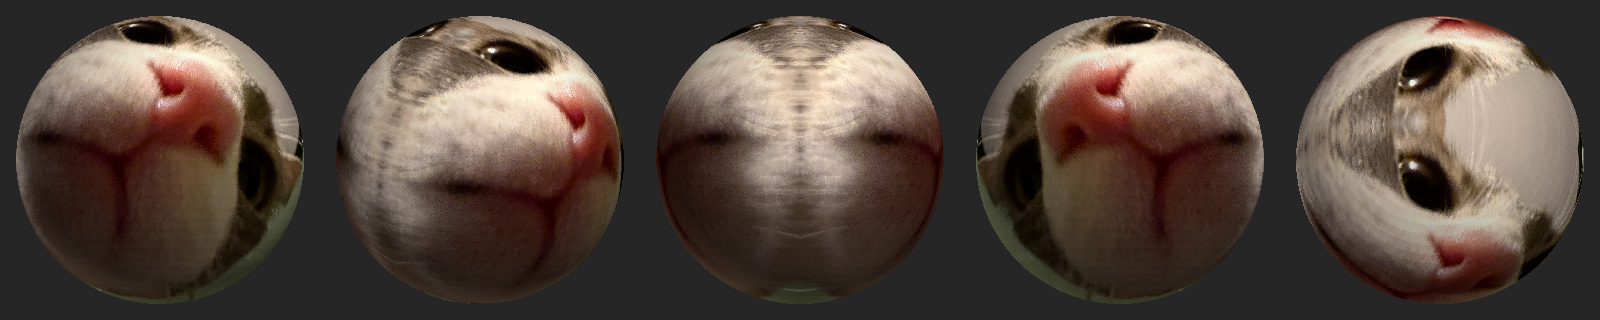
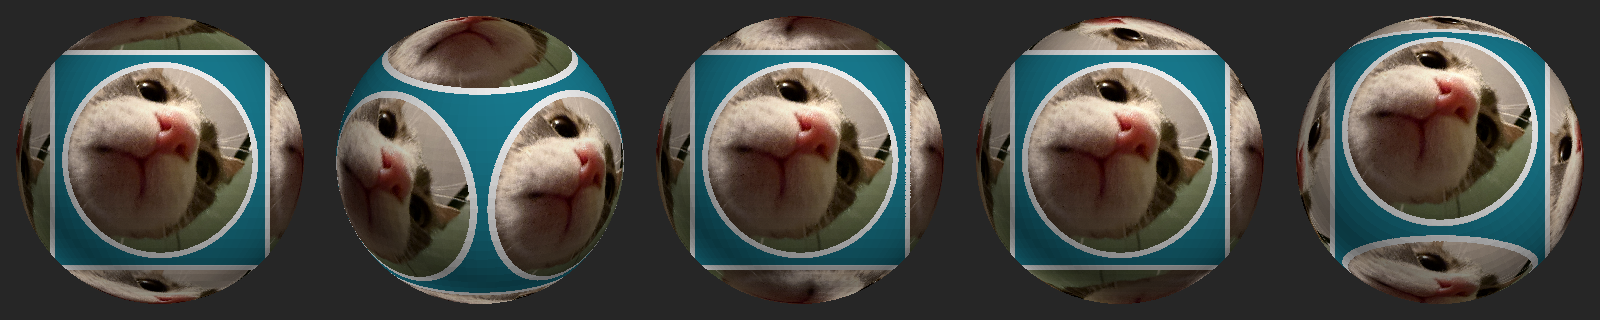
Fix chrome look and add sticker layouts
- colour texture alpha is metalness (game packs soul_container_metal.png
  there; original is fully metallic) -> default metalness 0, roughness 0.9
- new layouts: cube6 (6 photo stickers, readable from any angle, default),
  twice (front/back), wrap (previous behaviour)

diff --git a/catmod/photo.py b/catmod/photo.py
@@ -1,43 +1,72 @@
 """Project a user photo onto the sphere's equirectangular texture.
 
-Every texel (u, v) is a direction d on the sphere (convention in catmod.mesh, +Z up). The photo is
-"printed" on the front hemisphere (+X) facing outward; the back hemisphere is filled per `back`.
+Every texel (u, v) is a direction d on the sphere (convention in catmod.mesh: +Z up, u = phi/2pi,
+v = theta/pi). In game the container's orientation is arbitrary, so the default layout repeats the
+photo as round "stickers" so that a complete, undistorted photo is visible from every angle.
 
-Parameters (all exposed so a UI can tweak them):
-  center      (x, y) of the photo pixel that lands on the front of the sphere, fractions 0..1
-  radius      radius of the photo disc that wraps the front hemisphere, as a fraction of the
-              photo's shorter side (0.5 = the largest centred disc)
-  projection  'ortho'       -> looks exactly like the photo when seen straight on
-              'equidistant' -> spreads the photo more evenly, less squashed towards the edges
-  back        'mirror' -> back hemisphere = same disc (seamless, appears mirrored from behind)
-              'flip'   -> back hemisphere = disc flipped so it reads correctly from behind
-              'color'  -> solid `back_color`
+Layouts:
+  'cube6'  6 stickers at the cube face centres (+-X, +-Y, +-Z)      <- default, readable from anywhere
+  'twice'  2 stickers, front (+X) and back (-X)
+  'wrap'   one photo wrapped around the whole sphere (front +X, back per `back`)
+
+Sticker parameters:
+  sticker_deg   angular radius of each sticker (cube6 max ~45 before they touch)
+  ring_deg      width of the coloured ring around each sticker (0 = none)
+  ring_color / bg_color
+
+Photo framing (shared by all layouts):
+  center      photo point (fractions 0..1) placed at each sticker's centre
+  radius      photo disc radius as a fraction of the photo's shorter side (0.5 = largest centred disc)
+  projection  'equidistant' (even spread) or 'ortho' (exact when seen straight on, squashed at edges)
+
+Material:
+  roughness   0..1, written to the NormalRoughness texture (blue channel)
+  metalness   0..1, stored in the colour texture's alpha (the game packs soul_container_metal.png
+              there; the original cage is fully metallic, which makes a photo look like chrome).
 """
 from __future__ import annotations
 
-from dataclasses import dataclass, field
+from dataclasses import dataclass
 
 import numpy as np
 from PIL import Image, ImageEnhance, ImageOps
 
 TEX_SIZE = 2048
 
+S = 1 / np.sqrt(2)
+# (centre direction, up direction) per sticker. Up for the top/bottom stickers is arbitrary.
+LAYOUTS = {
+    "cube6": [((1, 0, 0), (0, 0, 1)), ((-1, 0, 0), (0, 0, 1)), ((0, 1, 0), (0, 0, 1)),
+              ((0, -1, 0), (0, 0, 1)), ((0, 0, 1), (-1, 0, 0)), ((0, 0, -1), (1, 0, 0))],
+    "twice": [((1, 0, 0), (0, 0, 1)), ((-1, 0, 0), (0, 0, 1))],
+}
+
 
 @dataclass
 class PhotoParams:
+    layout: str = "cube6"
     center: tuple[float, float] = (0.5, 0.5)
     radius: float = 0.5
     projection: str = "equidistant"
-    back: str = "mirror"
-    back_color: tuple[int, int, int] = (40, 40, 40)
+    sticker_deg: float = 40.0
+    ring_deg: float = 3.0
+    ring_color: tuple[int, int, int] = (235, 235, 235)
+    bg_color: tuple[int, int, int] = (24, 120, 140)  # soul teal
+    back: str = "mirror"  # wrap layout only: mirror | flip | color
+    metalness: float = 0.0
+    roughness: float = 0.9  # 0 = mirror-like, 1 = fully matte (original cage: ~0.69)
     contrast: float = 1.05
     saturation: float = 1.10
-    rotation_deg: float = 0.0  # rotate the photo before projecting
+    rotation_deg: float = 0.0
 
     def validate(self):
+        assert self.layout in ("cube6", "twice", "wrap"), self.layout
         assert self.projection in ("ortho", "equidistant"), self.projection
         assert self.back in ("mirror", "flip", "color"), self.back
         assert 0.05 <= self.radius <= 1.5, self.radius
+        assert 5 <= self.sticker_deg <= 90, self.sticker_deg
+        assert 0 <= self.metalness <= 1, self.metalness
+        assert 0 <= self.roughness <= 1, self.roughness
         return self
 
 
@@ -61,35 +90,56 @@ def _bilinear(img: np.ndarray, x: np.ndarray, y: np.ndarray) -> np.ndarray:
     return (a * (1 - fx) + b * fx) * (1 - fy) + (c * (1 - fx) + d * fx) * fy
 
 
-def sphere_texture(photo, params: PhotoParams | None = None, size: int = TEX_SIZE) -> Image.Image:
-    params = (params or PhotoParams()).validate()
-    img = load_photo(photo, params)
-    arr = np.asarray(img, np.float32)
-    h, w = arr.shape[:2]
-    cx, cy = params.center[0] * w, params.center[1] * h
-    r = params.radius * min(w, h)
-
+def directions(size: int) -> np.ndarray:
     u = (np.arange(size) + 0.5) / size
-    v = (np.arange(size) + 0.5) / size
-    ph, th = np.meshgrid(u * 2 * np.pi, v * np.pi)
-    dx = np.sin(th) * np.cos(ph)  # towards the viewer of the front face
-    dy = np.sin(th) * np.sin(ph)  # viewer's right
-    dz = np.cos(th)               # up
+    ph, th = np.meshgrid(u * 2 * np.pi, u * np.pi)
+    return np.stack([np.sin(th) * np.cos(ph), np.sin(th) * np.sin(ph), np.cos(th)], -1)
 
-    lateral = np.hypot(dy, dz)
-    if params.projection == "ortho":
-        rho = lateral  # 0 at the front centre, 1 on the silhouette
-    else:
-        alpha = np.arctan2(lateral, np.abs(dx))  # angle from the front/back axis
-        rho = alpha / (np.pi / 2)
+
+def _disc_coords(d, centre, up, max_angle, projection):
+    """Unit-disc coords (sx right, sy up) of directions d in a sticker; rho=1 at max_angle."""
+    c, up = np.asarray(centre, float), np.asarray(up, float)
+    right = np.cross(up, c)  # viewer outside looking at the sticker: right = up x centre
+    x, y, z = d @ right, d @ up, d @ c
+    lateral = np.hypot(x, y)
+    ang = np.arctan2(lateral, z)
+    rho = (ang if projection == "equidistant" else np.sin(np.minimum(ang, np.pi / 2))) / (
+        max_angle if projection == "equidistant" else np.sin(max_angle))
     with np.errstate(invalid="ignore", divide="ignore"):
-        scale = np.where(lateral > 1e-9, rho / lateral, 0.0)
-    sx, sy = dy * scale, dz * scale  # unit-disc coordinates
+        k = np.where(lateral > 1e-9, rho / lateral, 0.0)
+    return x * k, y * k, ang
 
-    back = dx < 0
-    if params.back == "flip":
-        sx = np.where(back, -sx, sx)
-    out = _bilinear(arr, cx + sx * r, cy - sy * r)
-    if params.back == "color":
-        out[back] = params.back_color
-    return Image.fromarray(np.clip(out, 0, 255).astype(np.uint8), "RGB")
+
+def sphere_texture(photo, params: PhotoParams | None = None, size: int = TEX_SIZE) -> Image.Image:
+    """RGBA equirect texture; alpha = metalness."""
+    p = (params or PhotoParams()).validate()
+    arr = np.asarray(load_photo(photo, p), np.float32)
+    h, w = arr.shape[:2]
+    cx, cy, r = p.center[0] * w, p.center[1] * h, p.radius * min(w, h)
+    d = directions(size)
+
+    if p.layout == "wrap":
+        sx, sy, _ = _disc_coords(d, (1, 0, 0), (0, 0, 1), np.pi / 2, p.projection)
+        back = d[..., 0] < 0
+        if p.back == "flip":
+            sx = np.where(back, -sx, sx)
+        out = _bilinear(arr, cx + sx * r, cy - sy * r)
+        if p.back == "color":
+            out[back] = p.bg_color
+    else:
+        stickers = LAYOUTS[p.layout]
+        cos = np.stack([d @ np.asarray(c, float) for c, _ in stickers])
+        nearest = cos.argmax(0)
+        out = np.empty(d.shape[:2] + (3,), np.float32)
+        out[:] = p.bg_color
+        R, ring = np.radians(p.sticker_deg), np.radians(p.ring_deg)
+        for i, (c, up) in enumerate(stickers):
+            sx, sy, ang = _disc_coords(d, c, up, R, p.projection)
+            mine = nearest == i
+            inside = mine & (ang <= R)
+            out[inside] = _bilinear(arr, cx + sx[inside] * r, cy - sy[inside] * r)
+            out[mine & (ang > R) & (ang <= R + ring)] = p.ring_color
+
+    alpha = np.full(out.shape[:2] + (1,), round(p.metalness * 255), np.float32)
+    rgba = np.concatenate([np.clip(out, 0, 255), alpha], -1).astype(np.uint8)
+    return Image.fromarray(rgba, "RGBA")

diff --git a/scripts/catmod_cli.py b/scripts/catmod_cli.py
@@ -30,7 +30,15 @@ def main():
     b.add_argument("--center", type=float, nargs=2, default=(0.5, 0.5), metavar=("X", "Y"))
     b.add_argument("--radius", type=float, default=0.5)
     b.add_argument("--projection", choices=["ortho", "equidistant"], default="equidistant")
-    b.add_argument("--back", choices=["mirror", "flip", "color"], default="mirror")
+    b.add_argument("--layout", choices=["cube6", "twice", "wrap"], default="cube6",
+                   help="cube6: 6 photo stickers (readable from any angle); twice: front+back; wrap: one photo")
+    b.add_argument("--sticker-deg", type=float, default=40.0, help="sticker angular radius")
+    b.add_argument("--ring-deg", type=float, default=3.0, help="ring width around stickers (0 = none)")
+    b.add_argument("--bg-color", default="18788c", help="hex colour between stickers")
+    b.add_argument("--ring-color", default="ebebeb", help="hex colour of the sticker ring")
+    b.add_argument("--metalness", type=float, default=0.0)
+    b.add_argument("--roughness", type=float, default=0.9)
+    b.add_argument("--back", choices=["mirror", "flip", "color"], default="mirror", help="wrap layout only")
     b.add_argument("--rotate", type=float, default=0.0)
     a = ap.parse_args()
 
@@ -39,8 +47,11 @@ def main():
             print("wrote", p)
         return
 
-    params = PhotoParams(center=tuple(a.center), radius=a.radius, projection=a.projection,
-                         back=a.back, rotation_deg=a.rotate)
+    hexrgb = lambda h: tuple(int(h.lstrip("#")[i:i + 2], 16) for i in (0, 2, 4))
+    params = PhotoParams(layout=a.layout, center=tuple(a.center), radius=a.radius,
+                         projection=a.projection, sticker_deg=a.sticker_deg, ring_deg=a.ring_deg,
+                         bg_color=hexrgb(a.bg_color), ring_color=hexrgb(a.ring_color), back=a.back,
+                         metalness=a.metalness, roughness=a.roughness, rotation_deg=a.rotate)
     result = build_mod(a.photo, params)
     a.output.parent.mkdir(parents=True, exist_ok=True)
     a.output.write_bytes(result.vpk_bytes())

diff --git a/catmod/build.py b/catmod/build.py
@@ -14,8 +14,9 @@ from .photo import PhotoParams, sphere_texture
 from .vmdl import build_sphere_model, decode_lod
 
 # compiled NormalRoughness layout (raw texels): R,G = normal XY (128 = flat), B = roughness, A = 255.
-# 177 = the original texture's average roughness. (Source2Viewer shows it re-arranged as RGB normal + A rough.)
-NORMAL_ROUGH_RGBA = (128, 128, 177, 255)
+# (Source2Viewer displays it re-arranged as RGB normal + A roughness.)
+def normal_rough_rgba(roughness: float):
+    return (128, 128, round(roughness * 255), 255)
 
 
 @dataclass
@@ -48,7 +49,8 @@ def build_mod(photo, params: PhotoParams | None = None, shape: str = "sphere") -
         raise NotImplementedError(shape)
     if not isinstance(photo, (str, Path, Image.Image)):
         photo = Image.open(io.BytesIO(photo.read() if hasattr(photo, "read") else photo))
-    texture = sphere_texture(photo, params)
+    params = (params or PhotoParams()).validate()
+    texture = sphere_texture(photo, params)  # RGBA, alpha = metalness
 
     model, grids = build_sphere_model(templates.load(templates.MODEL))
     color_tpl = templates.load(templates.COLOR)
@@ -58,9 +60,9 @@ def build_mod(photo, params: PhotoParams | None = None, shape: str = "sphere") -
     size = vtex.info(color_tpl)["width"]
     files = {
         templates.MODEL.game_path: model,
-        templates.COLOR.game_path: vtex.rebuild(color_tpl, texture.convert("RGBA").resize((size, size))),
+        templates.COLOR.game_path: vtex.rebuild(color_tpl, texture.resize((size, size), Image.LANCZOS)),
         templates.NORMAL_ROUGH.game_path: vtex.rebuild(
-            nr_tpl, Image.new("RGBA", (size, size), NORMAL_ROUGH_RGBA)),
+            nr_tpl, Image.new("RGBA", (size, size), normal_rough_rgba(params.roughness))),
         templates.AO.game_path: vtex.rebuild(ao_tpl, constant=255),  # no baked occlusion
     }
     return ModResult(files, texture, grids)

diff --git a/tests/test_catmod.py b/tests/test_catmod.py
@@ -52,11 +52,15 @@ def test_sphere_winding_outward_and_budget():
 def test_sphere_texture_shape_and_front():
     photo = Image.new("RGB", (300, 400), (200, 30, 30))
     photo.paste((30, 200, 30), (140, 190, 160, 210))  # green dot at the centre
-    tex = sphere_texture(photo, PhotoParams(saturation=1.0, contrast=1.0), size=256)
-    assert tex.size == (256, 256)
-    # front centre of the sphere = u 0 / v 0.5 -> texel column 0, middle row
-    r, g, b = tex.getpixel((0, 128))
-    assert g > r
+    for layout in ("cube6", "twice", "wrap"):
+        tex = sphere_texture(photo, PhotoParams(layout=layout, saturation=1.0, contrast=1.0), size=256)
+        assert tex.size == (256, 256) and tex.mode == "RGBA"
+        # front centre of the sphere = u 0 / v 0.5 -> texel column 0, middle row
+        r, g, b, a = tex.getpixel((0, 128))
+        assert g > r, layout
+        assert a == 0  # metalness 0 by default (alpha = metalness)
+    tex = sphere_texture(photo, PhotoParams(metalness=1.0), size=64)
+    assert tex.getpixel((0, 32))[3] == 255
 
 
 @needs_templates

diff --git a/README.md b/README.md
@@ -1,6 +1,6 @@
 # Deadlock Picture Mod — tu foto como Soul Container
 
-Convierte el **soul container** de Deadlock (el objeto que queda cuando mueres con almas sin asegurar) en una **esfera envuelta con una foto**, por ejemplo la de tu gato. El resultado es un `.vpk` que se instala con Deadlock Mod Manager.
+Convierte el **soul container** de Deadlock (el objeto que queda cuando mueres con almas sin asegurar) en una **esfera con tu foto**, por ejemplo la de tu gato. Por defecto, la foto se repite en 6 calcomanías redondas, así siempre se ve completa sin importar cómo caiga o gire la esfera. El resultado es un `.vpk` que se instala con Deadlock Mod Manager.
 
 ![preview](docs/preview.png)
 
@@ -19,10 +19,14 @@ Opciones de `build`:
 
 | Opción | Qué hace |
 |---|---|
+| `--layout cube6\|twice\|wrap` | `cube6`: 6 calcomanías, legible desde cualquier ángulo (por defecto); `twice`: frente y atrás; `wrap`: una sola foto envolviendo toda la esfera |
+| `--sticker-deg` / `--ring-deg` | tamaño angular de cada calcomanía (40° por defecto) y grosor del anillo (3°) |
+| `--bg-color` / `--ring-color` | colores hex del fondo (turquesa "alma") y del anillo |
+| `--metalness` / `--roughness` | material: 0 / 0.9 por defecto. **No subas el metal:** la foto se vuelve un reflejo cromado |
 | `--center X Y` | punto de la foto (de 0 a 1) que queda al frente de la esfera |
 | `--radius R` | cuánta foto envuelve el frente (fracción del lado corto; 0.5 por defecto, más grande = se ve más foto) |
 | `--projection equidistant\|ortho` | `equidistant` reparte la foto de forma pareja (por defecto); `ortho` la deja idéntica vista de frente, pero muy estirada en los bordes |
-| `--back mirror\|flip\|color` | qué va en la parte de atrás: espejo sin costura (por defecto), volteada o color sólido |
+| `--back mirror\|flip\|color` | solo para `wrap`: qué va en la parte de atrás |
 | `--rotate GRADOS` | rota la foto antes de proyectarla |
 
 Para probar en el juego, en sandbox o en una partida privada, abre la consola y ejecuta: `sv_cheats 1`, `citadel_give_gold 5000 1` (almas sin asegurar) y `kill`.
@@ -34,8 +38,8 @@ No hacen falta herramientas de Valve: el mod se arma **parcheando los archivos c
 | Archivo | Cambio |
 |---|---|
 | `soul_container.vmdl_c` | Los vértices e índices de los 4 LOD (comprimidos con meshoptimizer) se reemplazan por una esfera UV de radio 6.3. Se mantienen las mismas cantidades, así que los metadatos binarios (KV3), la física (esfera de radio 7) y el material no cambian. |
-| `soul_container_color…vtex_c` | La foto proyectada en equirectangular, 2048², BC7 con 10 mips, reutilizando la cabecera original. |
-| `soul_container_rough…vtex_c` | Normal plana y rugosidad uniforme, para que no se imprima el relieve de la jaula original. |
+| `soul_container_color…vtex_c` | La foto proyectada en equirectangular, 2048², BC7 con 10 mips, reutilizando la cabecera original. **El alpha de esta textura es el metalness**: el juego empaqueta ahí `soul_container_metal.png`, y la jaula original es 100% metálica. Lo dejamos en 0. |
+| `soul_container_rough…vtex_c` | Normal plana y rugosidad uniforme (0.9 por defecto), para que no se imprima el relieve de la jaula original y la foto se vea mate. |
 | `soul_container_ao…vtex_c` | Blanco (BC4), sin oclusión horneada. |
 
 Detalles de formato descubiertos por ingeniería inversa (verificados contra Source 2 Viewer):
